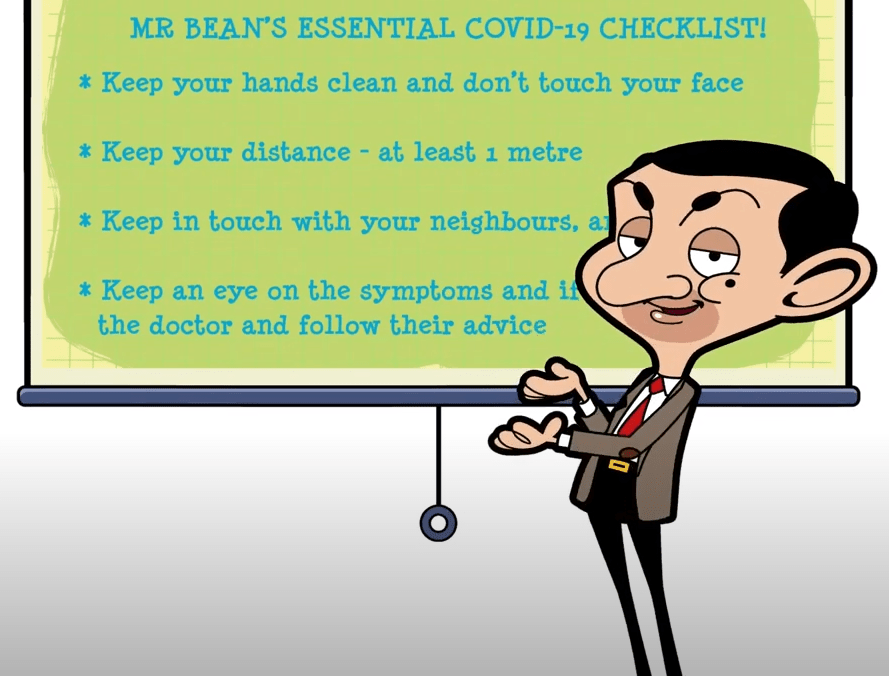
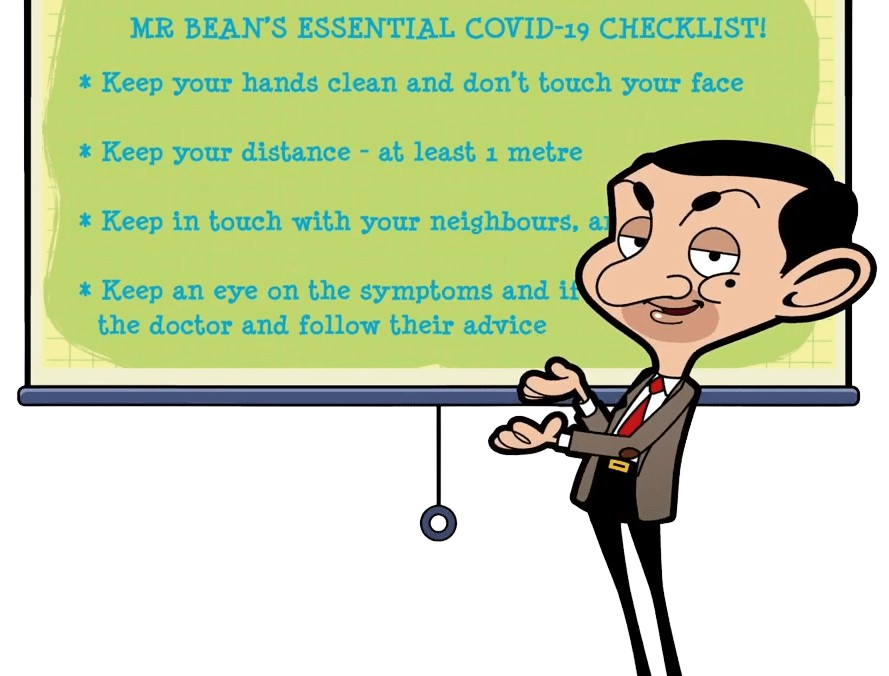
Kindly work

Changed region(s): [[0.0, 0.5902, 1.0, 1.0]]

diff --git a/index.html b/index.html
@@ -124,7 +124,8 @@ He also starred in a comedy spoof of Doctor Who as the Doctor, for a red nose da
     </div>
   </section> <br><br>
 <h1 align="center"><strong>Stay Safe!</strong></h1> <br>
-<div class="end" style="background-image: url(images/covid.png); background-size: cover; height:500px; background-position: center center;">
+<div class="container" align="center">
+  <img style="width: 460px; height: 460px;" src="images/covid.png">
 </div>
 
 

diff --git a/style.css b/style.css
@@ -119,26 +119,6 @@ strong
   color: #007bff;
 }
 
-.end {
-
-        background-repeat: no-repeat;
- 
-
-    }
-
-@media screen and (max-width: 490px){
-
-    .end {
-
-        background-image : url("images/covid.png");
-
-        background-size : cover;
-
-        height : 100%;
-
-    }
-
-}
 
 footer
 {
